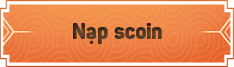
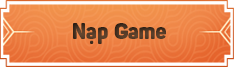
fix

Changed region(s): [[0.4786, 0.3284, 0.7179, 0.597]]

diff --git a/src/containers/lucky_rotation/index.js b/src/containers/lucky_rotation/index.js
@@ -821,7 +821,10 @@ class Lucky_Rotation extends React.Component {
 						<tbody>
 							{listVinhDanh.map((obj, key) => (
 								<tr key={key}>
-									<td><strong>{obj.userName}</strong> <br />{obj.itemName} <img src={ruong_icons} width={20} height={20}/><br />{obj.date}</td>
+									{(obj.itemName!=='...')?(<td><strong>{obj.userName}</strong> <br />{obj.itemName} <img src={ruong_icons} width={20} height={20}/><br />{obj.date}</td>):(
+										<td><strong>{obj.userName}</strong> <br />{obj.itemName} <br />{obj.date}</td>
+									)}
+									
 								</tr>
 							))}
 						</tbody>
@@ -857,7 +860,10 @@ class Lucky_Rotation extends React.Component {
 								{listVinhDanh.map((obj, key) => (
 									<tr key={key}>
 										<td className="border-right-0">{obj.userName}</td>
-										<td className="border-left-0 border-right-0">{obj.itemName} <img src={ruong_icons} width={25} height={25} /></td>
+										{(obj.itemName!=='...')?(<td className="border-left-0 border-right-0">{obj.itemName} <img src={ruong_icons} width={25} height={25} /></td>):(
+											<td className="border-left-0 border-right-0">{obj.itemName}</td>
+										)}
+										
 										<td className="border-left-0">{obj.date}</td>
 									</tr>
 								))}
@@ -1149,13 +1155,13 @@ class Lucky_Rotation extends React.Component {
 									<table class="table mx-auto tbl-bang-vinh-danh-mobile text-center">
 										<thead class="font-iCielPantonLight font-weight-bold">
 										<tr>
-											<th><p class="card-text font-iCielPantonBlack text-brown-shadow font16">STT/Số lượng/Thời gian</p></th>
+											<th><p class="card-text font-iCielPantonBlack text-brown-shadow font16">Nạp Game/Số lượng/Thời gian</p></th>
 										</tr>
 										</thead>
 										<tbody>
 											{listKey.map((obj, key) => (
 												<tr key={key}>
-													<td class="font16"><strong>{obj.cardValue}</strong> <br />{obj.receivedTurn}<br />{obj.date}</td>
+													<td class="font16"><strong>{obj.cardValue}</strong> <br />{obj.receivedTurn} <img src={key_yellow_icon} width="20" class="img-fluid" /><br />{obj.date}</td>
 												</tr>
 											))}
 										
@@ -1179,7 +1185,7 @@ class Lucky_Rotation extends React.Component {
 									<table class="table table-borderless text-center mb-2">
 										<thead>
 										<tr>
-											<th><p class="font-iCielPantonBlack text-brown-shadow font18 mb-0">STT</p></th>
+											<th><p class="font-iCielPantonBlack text-brown-shadow font18 mb-0">Nạp Game</p></th>
 											<th><p class="font-iCielPantonBlack text-brown-shadow font18 mb-0">Số lượng</p></th>
 											<th><p class="font-iCielPantonBlack text-brown-shadow font18 mb-0">Thời gian</p></th>
 										</tr>
@@ -1188,7 +1194,7 @@ class Lucky_Rotation extends React.Component {
 											{listKey.map((obj, key) => (
 												<tr key={key}>
 													<td className="border-right-0">{obj.cardValue}</td>
-													<td className="border-left-0 border-right-0">{obj.receivedTurn}</td>
+													<td className="border-left-0 border-right-0">{obj.receivedTurn} <img src={key_yellow_icon} width="20" class="img-fluid" /></td>
 													<td className="border-left-0">{obj.date}</td>
 												</tr>
 											))}
